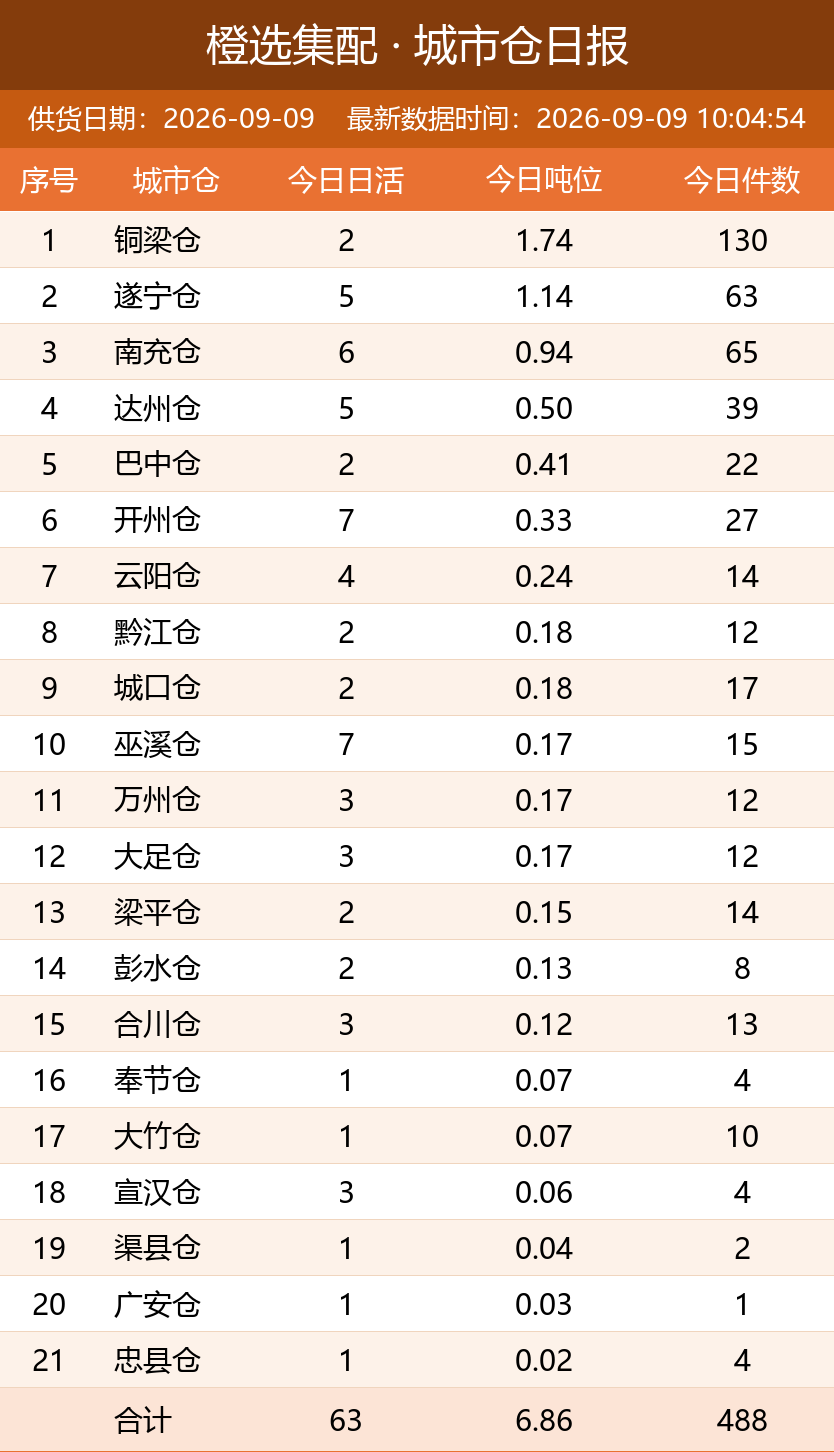
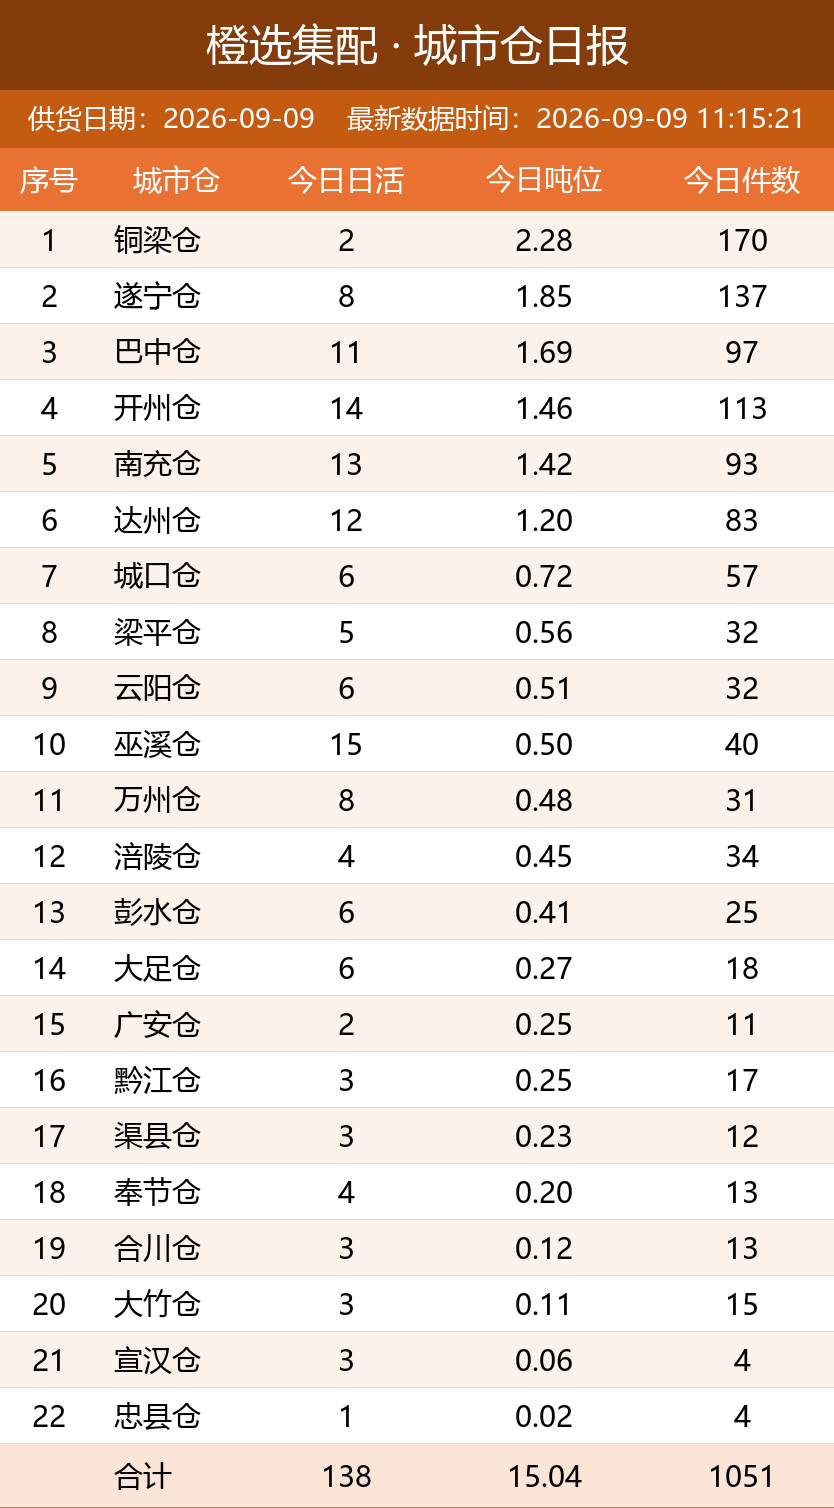
自动更新日报图片

Changed region(s): [[0.0, 0.0, 1.0, 0.9917], [0.3741, 0.9607, 0.4365, 0.9917]]

diff --git a/index.html b/index.html
@@ -11,7 +11,7 @@ img { max-width: 100%; border: 1px solid #e5e5e5; margin-bottom: 24px; display: 
 </style>
 </head>
 <body>
-<h1>橙选集配日报图片（20260909_100457）</h1>
+<h1>橙选集配日报图片（20260909_111531）</h1>
 <img src="bd_latest.png" alt="BD 日报">
 <img src="wh_latest.png" alt="城市仓日报">
 <img src="zs_latest.png" alt="招商日报">
